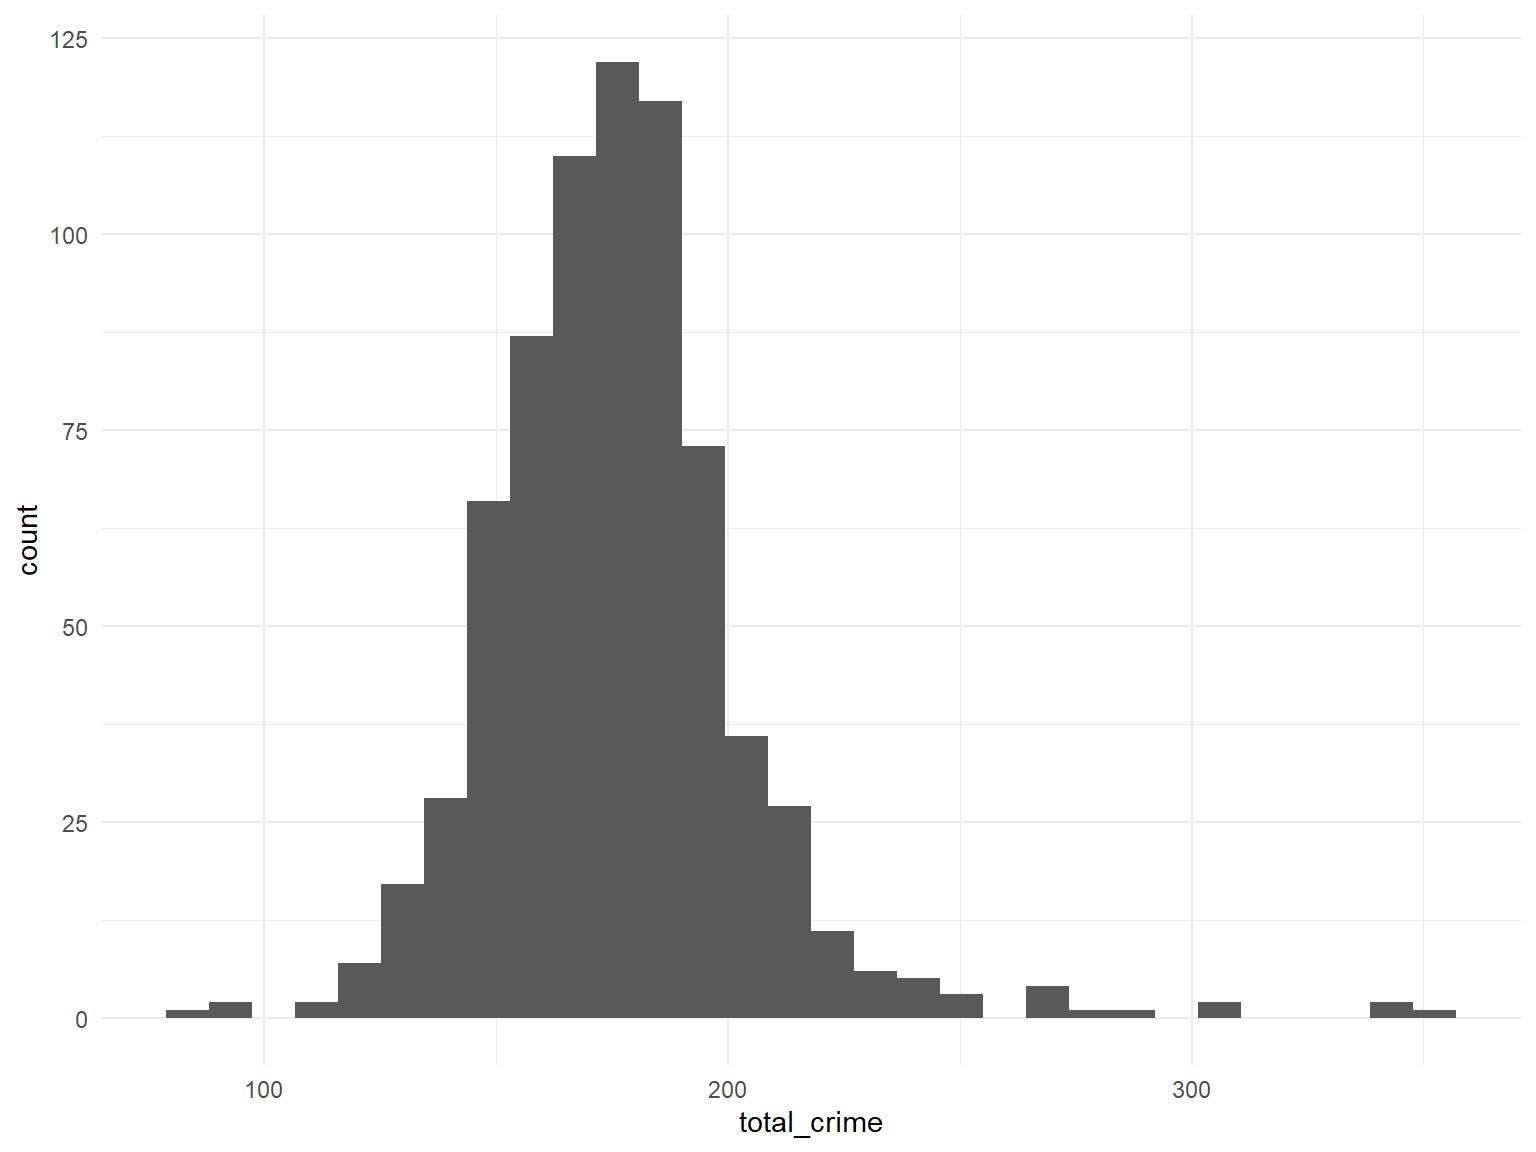
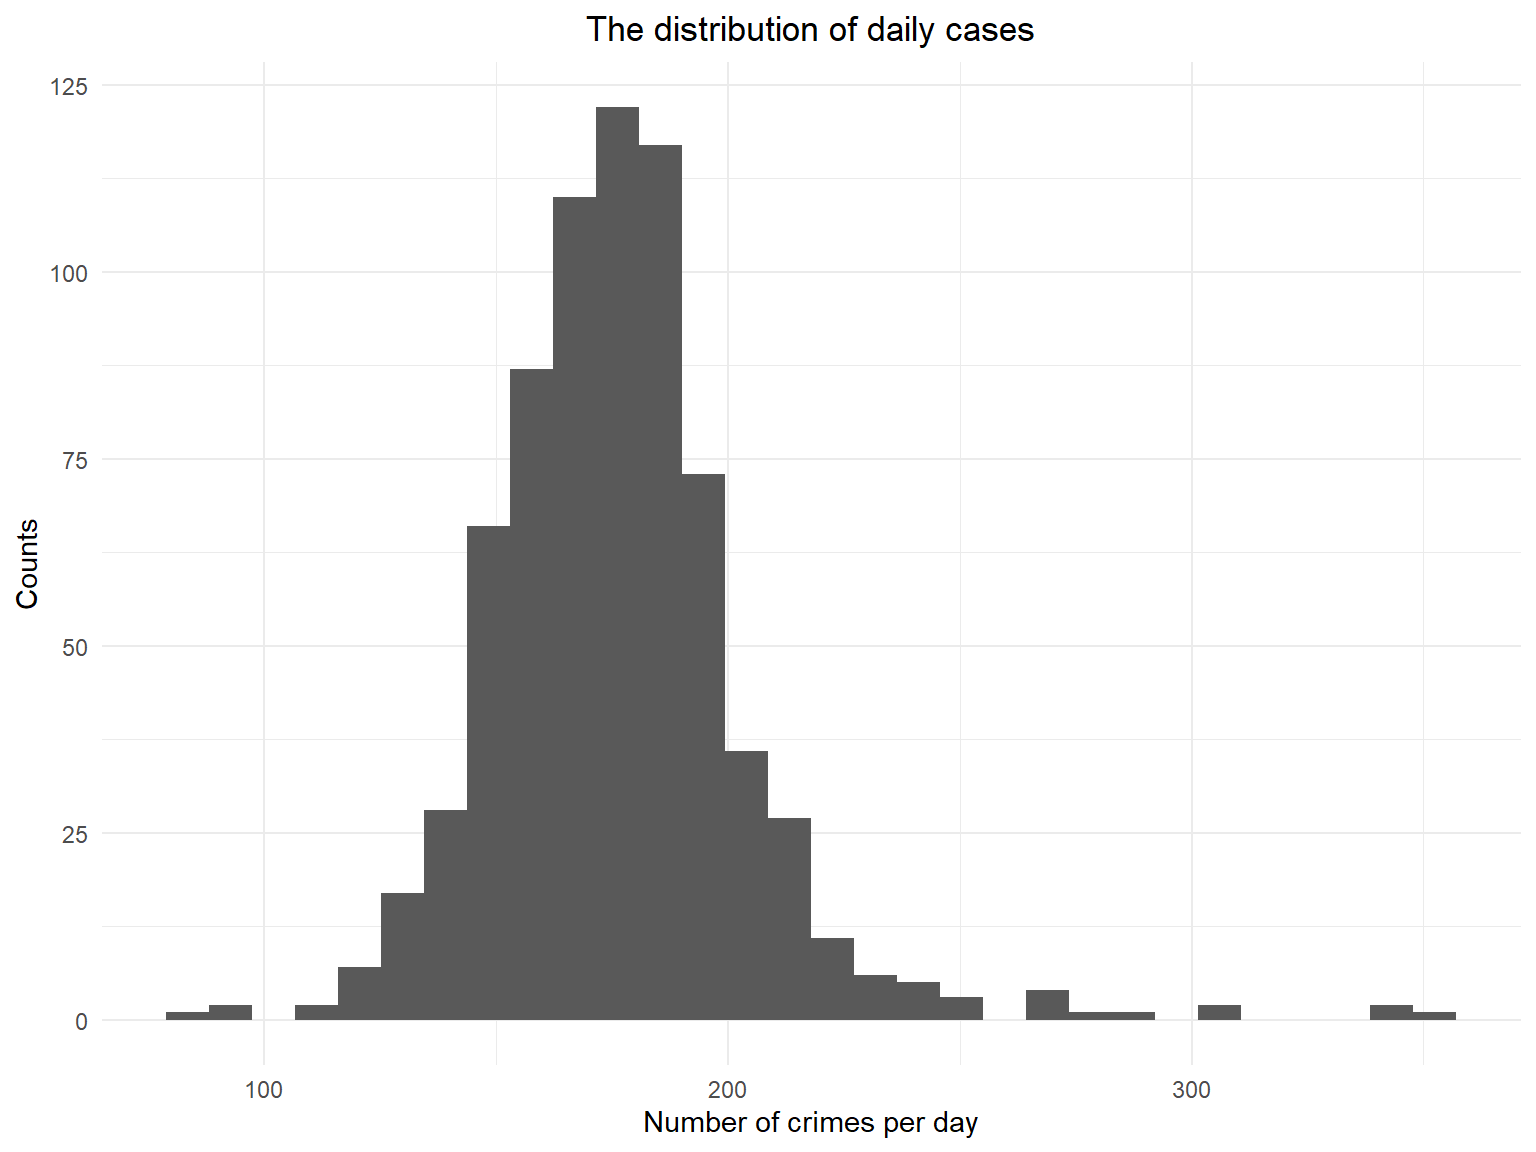
add labs into the ggplot

diff --git a/Modeling.html b/Modeling.html
@@ -392,28 +392,45 @@ div.tocify {
 </div>
 
 
-<p>In some articles, we knew that weather affect crime rate. For
-example, the hotter the weather is, the more likely people are to commit
-crimes. The worse the weather is, the less likely people are to go out
-and commit crimes. Here we want to predict number of crimes each day in
-New York as our outcome and precipitation, snow depth, maximum
-temperature and minimum temperature as predictors.</p>
+<p>Based on some publicly available information, we knew that weather
+affect crime rate. For example, the hotter the weather is, the more
+likely people are to commit crimes. The worse the weather is, the less
+likely people are to go out and commit crimes. Here we want to predict
+number of crimes each day in New York as our outcome. And the
+precipitation, snow depth, maximum temperature and minimum temperature
+can be considered as predictors.</p>
 <p>First, let’s check the distribution of number of crime cases each day
-in New York</p>
-<pre class="r"><code>ggplot(data = crime_weather,aes(x = total_crime)) + geom_histogram()</code></pre>
-<p><img src="Modeling_files/figure-html/unnamed-chunk-3-1.png" width="768" />
-From the distribution of daily cases, we noticed that it is
+in New York.</p>
+<pre class="r"><code>ggplot(data = crime_weather,aes(x = total_crime)) + geom_histogram()+ 
+  labs(title = &quot;The distribution of daily cases&quot;, 
+       y = &quot;Counts&quot;, 
+       x = &quot;Number of crimes per day&quot;)+
+  theme(plot.title = element_text(hjust = 0.5))</code></pre>
+<p><img src="Modeling_files/figure-html/unnamed-chunk-3-1.png" width="768" /></p>
+<p>From the distribution of daily cases, we noticed that it is
 approximately normally distributed, therefore we don’t need to transform
 the value of the outcome.</p>
-<p>First we use scatter plot to investigate the association between
-weather and cases and crime</p>
-<pre class="r"><code>ggplot(crime_weather, aes(x = mean_tmax, y = total_crime)) + geom_point() </code></pre>
+<p>Then, we use scatter plot to investigate the association between
+weather and cases/crime.</p>
+<pre class="r"><code>ggplot(crime_weather, aes(x = mean_tmax, y = total_crime)) + geom_point()+    labs(title = &quot;The Association between Max temperatures and reported crime&quot;, 
+       y = &quot;Total Crime reported&quot;, 
+       x = &quot;Max temperatures of a day&quot;)+
+    theme(plot.title = element_text(hjust = 0.5))</code></pre>
 <p><img src="Modeling_files/figure-html/unnamed-chunk-4-1.png" width="768" /></p>
-<pre class="r"><code>ggplot(crime_weather, aes(x = mean_tmin, y = total_crime)) + geom_point() </code></pre>
+<pre class="r"><code>ggplot(crime_weather, aes(x = mean_tmin, y = total_crime)) + geom_point()+    labs(title = &quot;The Association between Min temperatures and reported crime&quot;, 
+       y = &quot;Total Crime reported&quot;, 
+       x = &quot;Min temperatures of a day&quot;)+
+    theme(plot.title = element_text(hjust = 0.5))</code></pre>
 <p><img src="Modeling_files/figure-html/unnamed-chunk-4-2.png" width="768" /></p>
-<pre class="r"><code>ggplot(crime_weather, aes(x = mean_prcp, y = total_crime)) + geom_point() </code></pre>
+<pre class="r"><code>ggplot(crime_weather, aes(x = mean_prcp, y = total_crime)) + geom_point()+    labs(title = &quot;The Association between precipitation and reported crime&quot;,
+       y = &quot;Total Crime reported&quot;, 
+       x = &quot;Precipitation(tenths of mm)&quot;)+
+    theme(plot.title = element_text(hjust = 0.5))</code></pre>
 <p><img src="Modeling_files/figure-html/unnamed-chunk-4-3.png" width="768" /></p>
-<pre class="r"><code>ggplot(crime_weather, aes(x = mean_snow, y = total_crime)) + geom_point()</code></pre>
+<pre class="r"><code>ggplot(crime_weather, aes(x = mean_snow, y = total_crime)) + geom_point()+    labs(title = &quot;The Association between snowfall and reported crime&quot;,
+       y = &quot;Total Crime reported&quot;, 
+       x = &quot;Snow depth(mm)&quot;)+
+    theme(plot.title = element_text(hjust = 0.5))</code></pre>
 <p><img src="Modeling_files/figure-html/unnamed-chunk-4-4.png" width="768" /></p>
 <p>From the plots, we noticed that all of the four predictors may have
 association with the number of cases of crime in New York, So I proposed
@@ -1252,16 +1269,16 @@ models.</p>
 plot(model3)</code></pre>
 <p><img src="Modeling_files/figure-html/unnamed-chunk-14-1.png" width="768" /></p>
 <p>Model3’s root means square error is the smallest in the four models,
-which may indicates it is the best model in the four models. We then did
-a model diagnostic to check if the model assumptions. Although there are
-some outliers as shown in the plots, the Q-Q plot, residuals VS fitted
-plot and Scale-Location plot indicates the residuals are normally
-distributed and variance of residuals is constant. Therefore, model3
-could be useful for predicting the total number of crime cases each day
-in New York, which means month, day of week, temperature, precipitation
-, snow depth and a interaction term between day of week and temperature
-are all useful predictors if we want to predict the number of crime
-cases on a specific day in New York.</p>
+which may indicates it is the best model in the four models.</p>
+<p>We then did a model diagnostic to check if the model assumptions.
+Although there are some outliers as shown in the plots, the Q-Q plot,
+residuals VS fitted plot and Scale-Location plot indicates the residuals
+are normally distributed and variance of residuals is constant.
+Therefore, model3 could be useful for predicting the total number of
+crime cases each day in New York, which means month, day of week,
+temperature, precipitation , snow depth and a interaction term between
+day of week and temperature are all useful predictors if we want to
+predict the number of crime cases on a specific day in New York.</p>
 </div>
 
 
